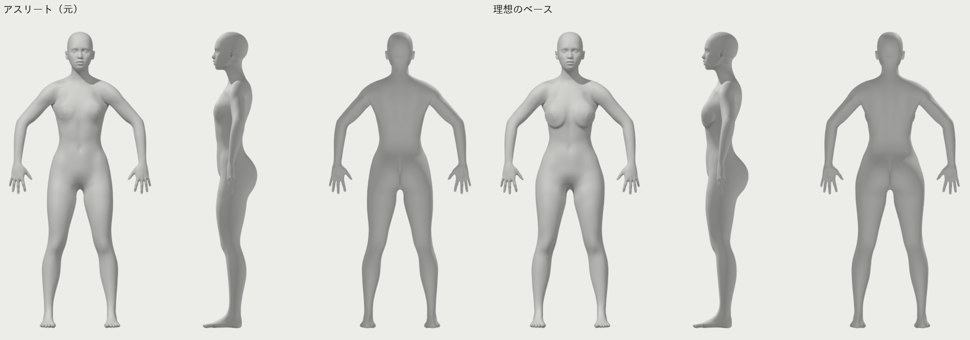
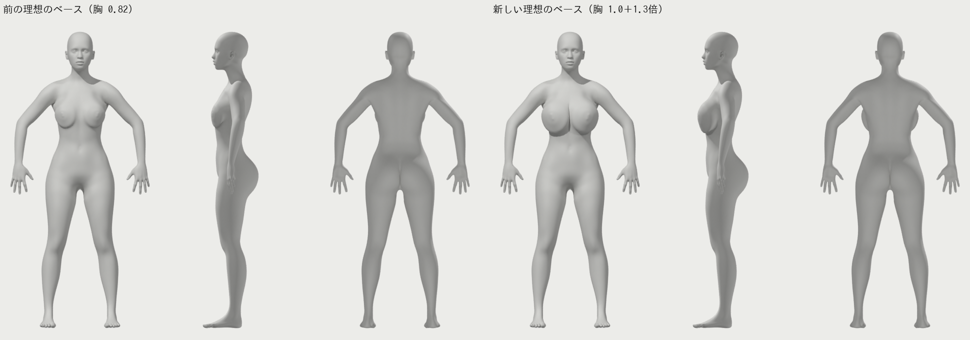
理想のベースの胸を MakeHuman の上限を超えて大きくする
焼き込んだ形の上で胸の範囲を滑らかに膨らませる breast_scale を足し、
理想のベースを cupsize 1.0 ＋ 1.3 倍にする。崩れた試し（上限超えの数字、
1.5 倍以上、広すぎるならし）を 3d.md に残す。

Claude-Session: https://claude.ai/code/session_01Raj3ZHMvaTdhHcmmGwa9QK

diff --git a/tools/engine/mannequin.py b/tools/engine/mannequin.py
@@ -62,11 +62,38 @@ def build(spec, gender, arms):
         # 角張りを消す（マネキンの滑らかな面）
         sub = o.modifiers.new("smooth", "SUBSURF")
         sub.levels = sub.render_levels = 1
-    flatten(body)
+    flatten(body, spec.get("breast_scale", 1.0))
     return meshes
 
 
-def flatten(body):
+def enlarge_breasts(mesh, tips, scale):
+    """胸を scale 倍（長さ）に膨らませる。MakeHuman の数字は 1.0 が上限で、超えると形が崩れて平らになった。
+
+    胸の先（区分 nippleTip）から体の内側へ 6cm の点を中心に、半径 17cm の点を中心から遠ざける。
+    中心に近いほど強く、縁で 0 になるようにして、胸の付け根に段を作らない。腕と背中は動かさない。"""
+    from mathutils import Vector
+    for side in (-1, 1):
+        pts = [mesh.vertices[i].co for i in tips if mesh.vertices[i].co.x * side > 0]
+        if not pts:
+            continue
+        tip = sum(pts, Vector()) / len(pts)
+        center = tip + Vector((0, 0.06, 0.015))  # 体の正面は -Y。内側は +Y。中心を先より少し上に置き、垂れた形にしない
+        radius = 0.17
+        for v in mesh.vertices:
+            d = (v.co - center).length
+            if d >= radius or v.co.y > center.y + 0.02 or abs(v.co.x) > abs(center.x) + 0.11 or v.co.x * side <= 0:
+                continue
+            # 縁まで滑らかに弱める。内側を一律に膨らませて縁で急に落とすと、胸の下に段ができた
+            t = 1 - d / radius
+            w = t * t * (3 - 2 * t)
+            if v.co.z > center.z + 0.04:  # 鎖骨の方へは膨らませない
+                w *= max(0.0, 1 - (v.co.z - center.z - 0.04) / 0.05)
+            if v.co.z < center.z - 0.08:  # 下へ伸びすぎると垂れた形になる。急に止めると下側が平らに切れた
+                w *= max(0.0, 1 - (center.z - 0.08 - v.co.z) / 0.08)
+            v.co = center + (v.co - center) * (1 + (scale - 1) * w)
+
+
+def flatten(body, breast_scale=1.0):
     """乳首と股の細かい凹凸を平らにならす（マネキンには無い）。
 
     体型は形の差分（shape key）と骨で後から上乗せされるので、元の形をならしても凹凸が戻った。
@@ -111,6 +138,11 @@ def flatten(body):
         print("ならした", group, "区分", len(idx), "点 / 範囲", len(picked), "点", flush=True)
         bm.to_mesh(mesh)
         bm.free()
+    # 膨らませるのは、乳首の凸をならした後にする。先に膨らませると、ならす範囲を広げないと凸が残り、
+    # 範囲を広げると胸全体が平らになった
+    if breast_scale != 1.0 and "nippleTip" in body.vertex_groups:
+        gi = body.vertex_groups["nippleTip"].index
+        enlarge_breasts(mesh, [v.index for v in mesh.vertices if any(g.group == gi for g in v.groups)], breast_scale)
     mesh.update()
 
 

diff --git a/docs/knowledge/decisions.md b/docs/knowledge/decisions.md
@@ -49,4 +49,5 @@
 | 2026-10-04 | 写実の 3D 人体は MakeHuman（MPFB）で組み、GLB に書き出してブラウザ（model-viewer）で回して見る。画像は 1024 四方の JPEG に縮める（選ばなかった案: 原寸の画像。19MB になり公開の上限を超えた） | 利用者の問い: 細部までリアルな 3D を作ってスマホで見られるか | `tools/engine/model3d.py` |
 | 2026-10-04 | 3D の見た目は写実ではなくアニメ調（頭を大きめ、平らな塗り、輪郭線）にする。写実の顔は利用者に見せない（選ばなかった案: MakeHuman の写実の肌と顔のまま） | 利用者の評価: 写実の顔は気持ち悪い。最初の頃の Blender の絵（頭身を縮めた塗り分け）の方が日本受けする良い見た目だった | `tools/engine/model3d.py`、表示のページ |
 | 2026-10-04 | 写実の 3D モデルは当面作らない。3D はアニメの素体が手に入ってから再開する | 利用者の指示: リアルモデルは今のところ要らない | `docs/knowledge/3d.md`、`tools/engine/model3d.py` |
-| 2026-10-04 | 女性キャラクターの基準の体を「理想のベース」（`library/body-types.json` の ideal）にする。アスリートの型から筋肉を 0.8→0.6 に控え、胸を 0.45→0.82 に大きくした | 利用者の指示: アスリート体型くらい、筋肉感は少し、胸はもっと | `library/body-types.json` の female.ideal |
+| 2026-10-04 | （置き換え済み: 胸が足りないと言われ、下の行に替えた）女性キャラクターの基準の体を「理想のベース」（`library/body-types.json` の ideal）にする。アスリートの型から筋肉を 0.8→0.6 に控え、胸を 0.45→0.82 に大きくした | 利用者の指示: アスリート体型くらい、筋肉感は少し、胸はもっと | `library/body-types.json` の female.ideal |
+| 2026-10-04 | 理想のベースの胸を、MakeHuman の上限（cupsize 1.0）に、形を焼き込んだ後の 1.3 倍（長さ。体積は約2倍）の膨らませを足した大きさにする（選ばなかった案: 1.0 を超える cupsize。形が崩れて平らになった。1.5 倍以上は下に段ができた） | 利用者の評価: 日本で受けるデザインには、前の倍は要る | `library/body-types.json` の female.ideal（breast_scale）、`tools/engine/mannequin.py` の enlarge_breasts |

diff --git a/docs/knowledge/3d.md b/docs/knowledge/3d.md
@@ -73,3 +73,6 @@ PYTHONPATH=.cache/engine/bpy python3 tools/engine/mannequin.py out/ [--gender 0.
 | 白が飛んで形が見えない | 色と光が明るすぎた | 色 0.62、主光 2.2。背景は透明で描き、一覧図で明るい灰色に載せる |
 | 元の形をならしても凹凸が戻る | 体型は形の差分と骨で後から上乗せされる | 姿勢と体型を形に焼き込んでから、その形の上でならす |
 | 股の前がならせない | 点の区分 genitals は体の側では0点（補助の形にだけ入っている） | 体の中心線で一番低い点（股）の少し上から半径 7cm をならす |
+| 胸を MakeHuman の上限より大きくできない | cupsize と firmness は 1.0 が上限で、超えると形が崩れて平らになった | 焼き込んだ形の上で、胸の先の内側 6cm・少し上を中心に半径 17cm を膨らませる（breast_scale）。縁まで滑らかに弱め、鎖骨と下側は弱める |
+| 膨らませると胸の下に段・平らな切れ | 内側を一律に膨らませて縁で急に止めた／下側を急に止めた | 弱め方を距離に沿って滑らかにし、下側も 8cm かけて弱める。1.3 倍までが自然 |
+| 胸全体が平らになった | 乳首の凸をならす範囲を広げすぎた（5段・120回） | ならしは 3段・80回のまま、膨らませる前にならす |
